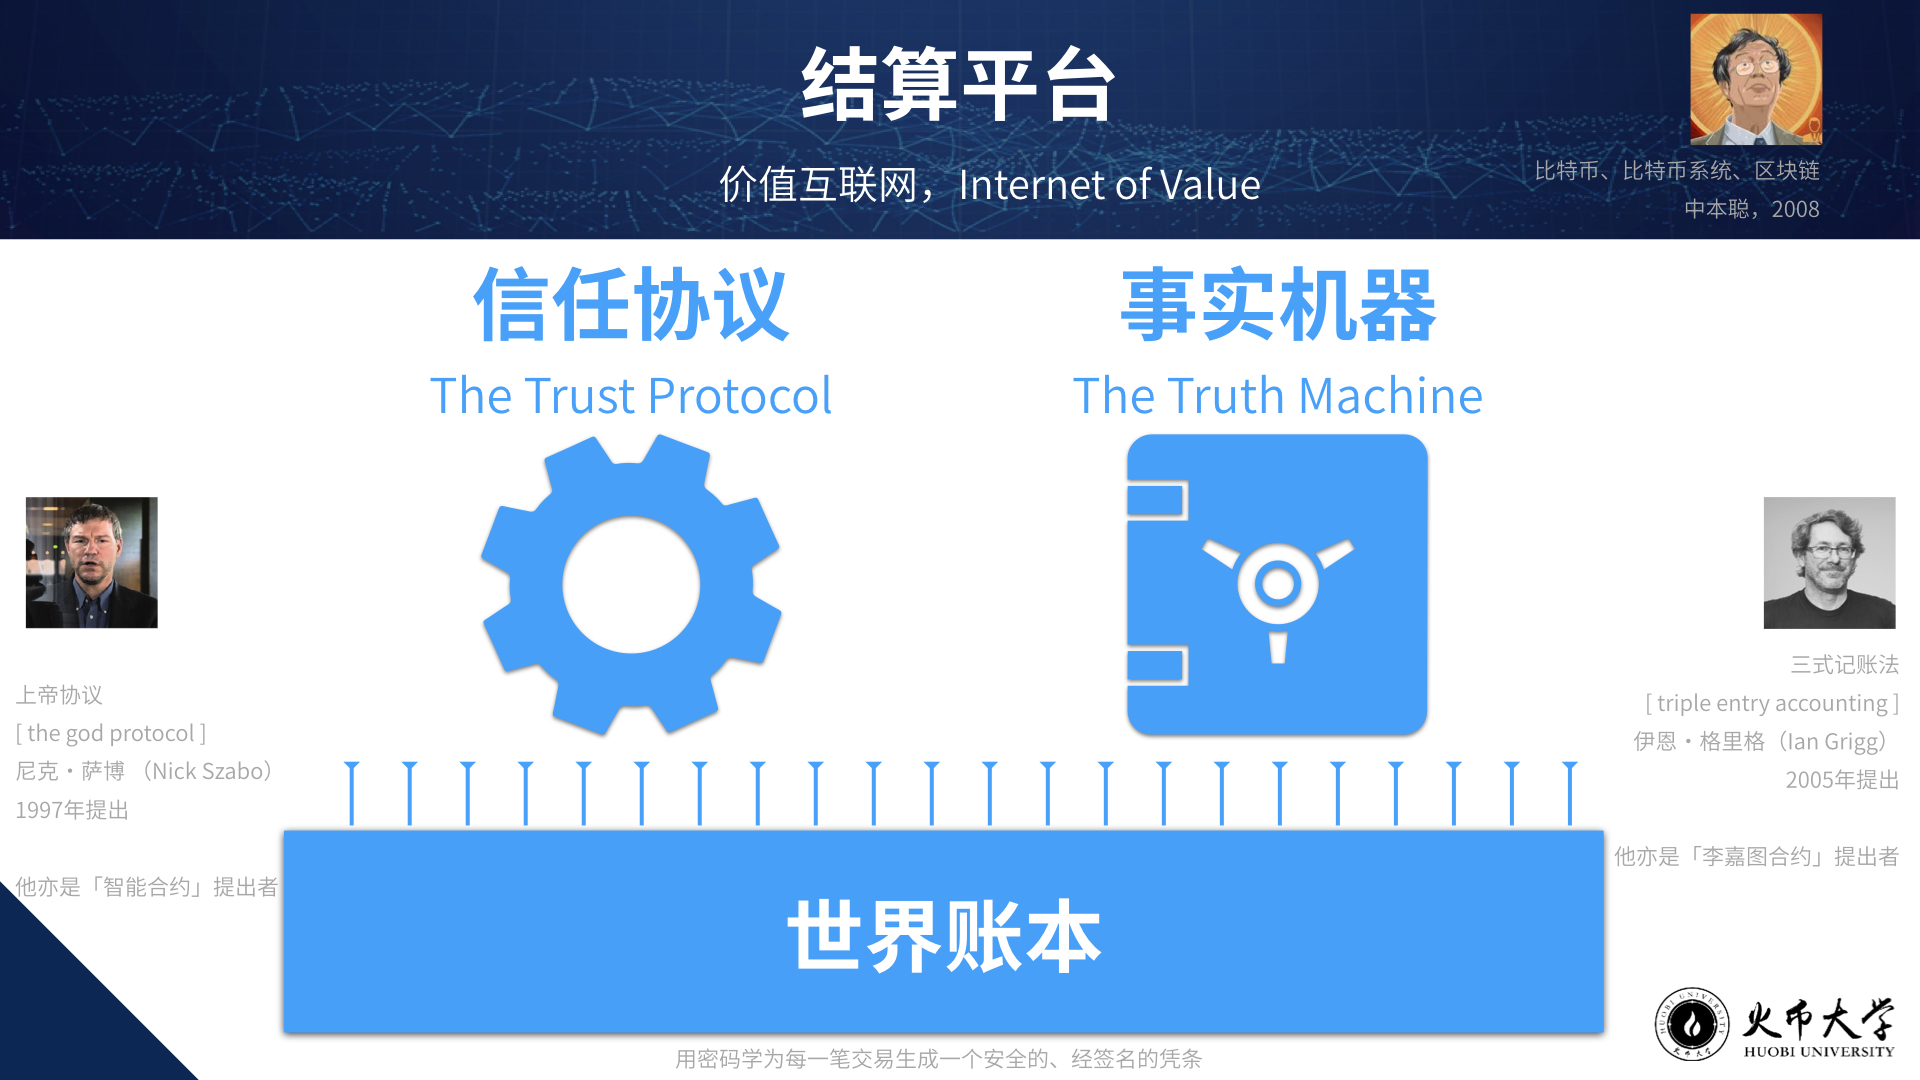
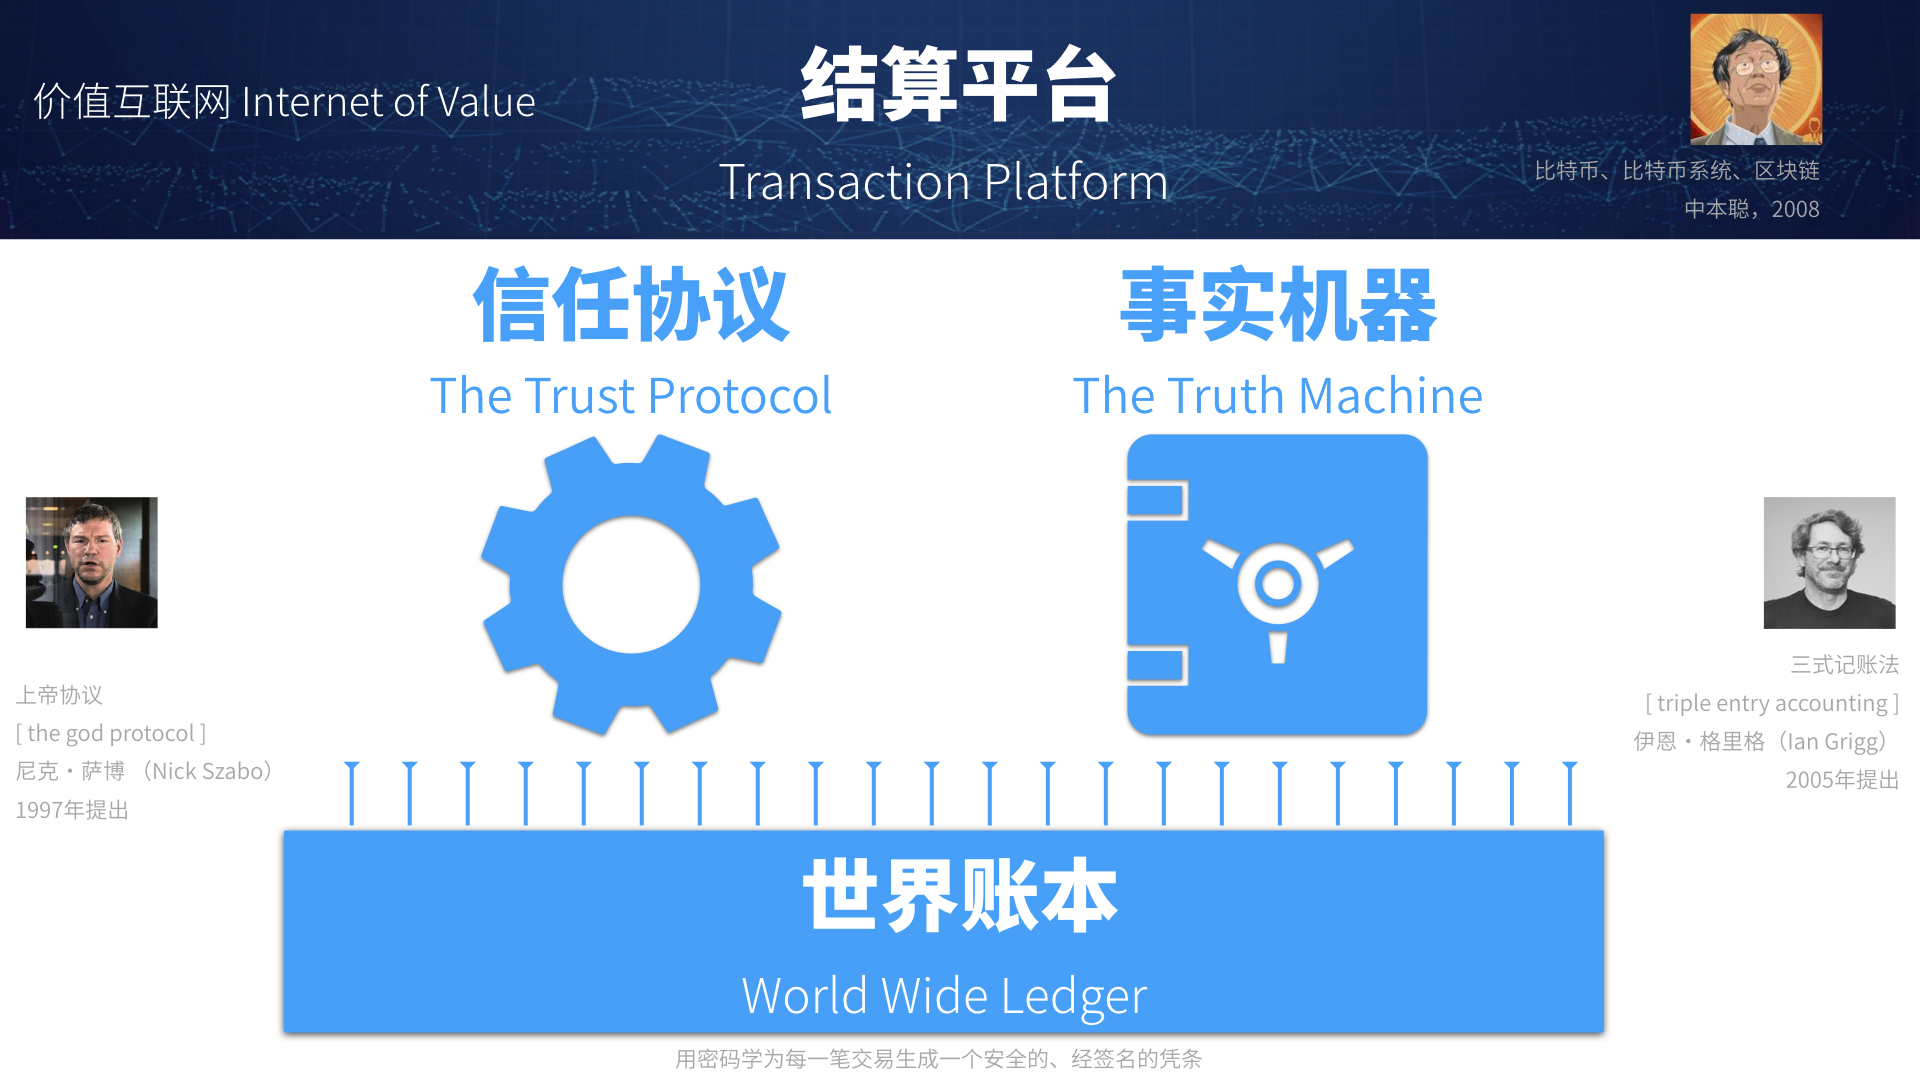
posts

diff --git a/_posts/2020-01-18-whats_blockchain.md b/_posts/2020-01-18-whats_blockchain.md
@@ -1,0 +1,58 @@
+---
+layout: post
+title:  "图解：四个词解释区块链是什么"
+author: jane
+categories: [ primer ]
+image: assets/postimages/railway-station-1653817_640.jpg
+---
+
+![区块链四个词](/assets/postimages/rblockchain_4lines.jpeg)
+
+## 世界账本 Word Wide Ledger
+
+互联网有个名字叫“万维网”，World Wide Web，世界信息网；世界账本正是与它对应的，它是遍布世界的账本（World Wide Ledger）。
+
+区块链处理数据的方式很像账本，它的用法也很像账本。它基本的逻辑结构，是一种独特的数字化的交易明细账本。
+
+Ledger，可以翻译为分类账、底帐、分类总账、 所有交易的汇总，也就是交易明细账本的意思。它就是记录下每一笔交易的“流水账”。
+
+区块链，首先是账本，更准确地说，是每一条交易明细都记下来、汇总起来形成的交易明细账本。
+
+## 事实机器 Truth Machine
+
+互联网是信息机器，而区块链是事实机器。区块链是把信息、数据记录下来，变成可以利用的“事实”的所谓“事实机器”。
+
+它实现的功能是，记录到它上面的信息，跟记录到它上面去的时候是一模一样的，它不能被篡改，并且随着时间的流逝越来越难被篡改。
+
+区块链上记录的信息和数据，比没有在它之上记录的数据，更接近于事实；在它上面记录的时间越久，也就越接近于事实。
+
+区块链是一个事实机器，它把信息和数据变成事实。随着时间的增加，它的可靠性越来越强。它与过去我们记录事实的工具有很大的不同：纸张会随着时间褪色，数据库容易被不留痕迹地修改。
+
+区块链是数字世界需要的事实机器。在一个个特定用途的区块链上，上面记录的事实可以自己证明自己，不需要再用其他的材料来佐证。 
+
+## 信任协议 Trust Protocol
+
+你把一个区块链用到多大的人群范围，你就在这个人群范围内形成了一个特定的“信任特区”，靠着区块链这个计算机网络，这群人可以对区块链上记录的数据形成绝对的信任。
+
+过去，在线下，要形成这样的强信任关系是很难的。一般来说，只有我们都是加入了同一个公司，甚至都在同一个小团队，我们同事之间才能形成这样的强信任。
+
+在线上，过去根本没有好的办法实现这种强信任。因此，在互联网上，要么是不要求相互之间绝对信任，要么是我们依靠互联网平台作为中间人来达成信任。
+
+作为新一代信任协议的区块链改变了这一点。
+
+区块链是新一代的信任协议，一个网络就可以取代了原来的中间人，因此，它可以进一步大幅降低现在我们建立信任、签订合同、做出担保的各种成本。
+
+作为信任协议的区块链，你可认为是一种促进人与人之间合作的社会技术。在现代公司的视野里、在互联网产业的视野里，它看起来是合同、平台的替代，但实际上它更类似于经济学里面说的那个“看不见的手”。不同的是，市场经济是一种人类观念，区块链不是一种人类观念，而是由程序、计算机和参与者形成的网络。
+
+更详细的讨论见：[区块链是第六代的信任协议](https://kchain.one/trust_porotocol_explained/)
+
+## 交易平台  Transaction platform
+
+当我们说区块链是结算平台时，就已经比较接近于很多人说的“价值互联网”了，现在的“信息互联网”上流动的是“信息”，将来的“价值互联网”是“钱的互联网”，流动的是“价值”、是“钱”。
+
+区块链这个结算平台可以结算的，远远超过了支付宝等平台，比如证书、股权、积分、身份信息、病历等等，都可以在区块链上进行 结算，区块链可以在人与人之间进行各种价值的转移。
+
+我们还要注意到，这个结算平台是可编程的，因为它有了“智能合约”这个功能，它是一个更好的结算平台。
+
+区块链可以像金融领域的结算、清算平台一样，帮我们做有价值的东西的结算，让它们流动起来。这就是为什么人们说，区块链正带来信息互联网之后的第二代互联网——价值互联网。 
+
